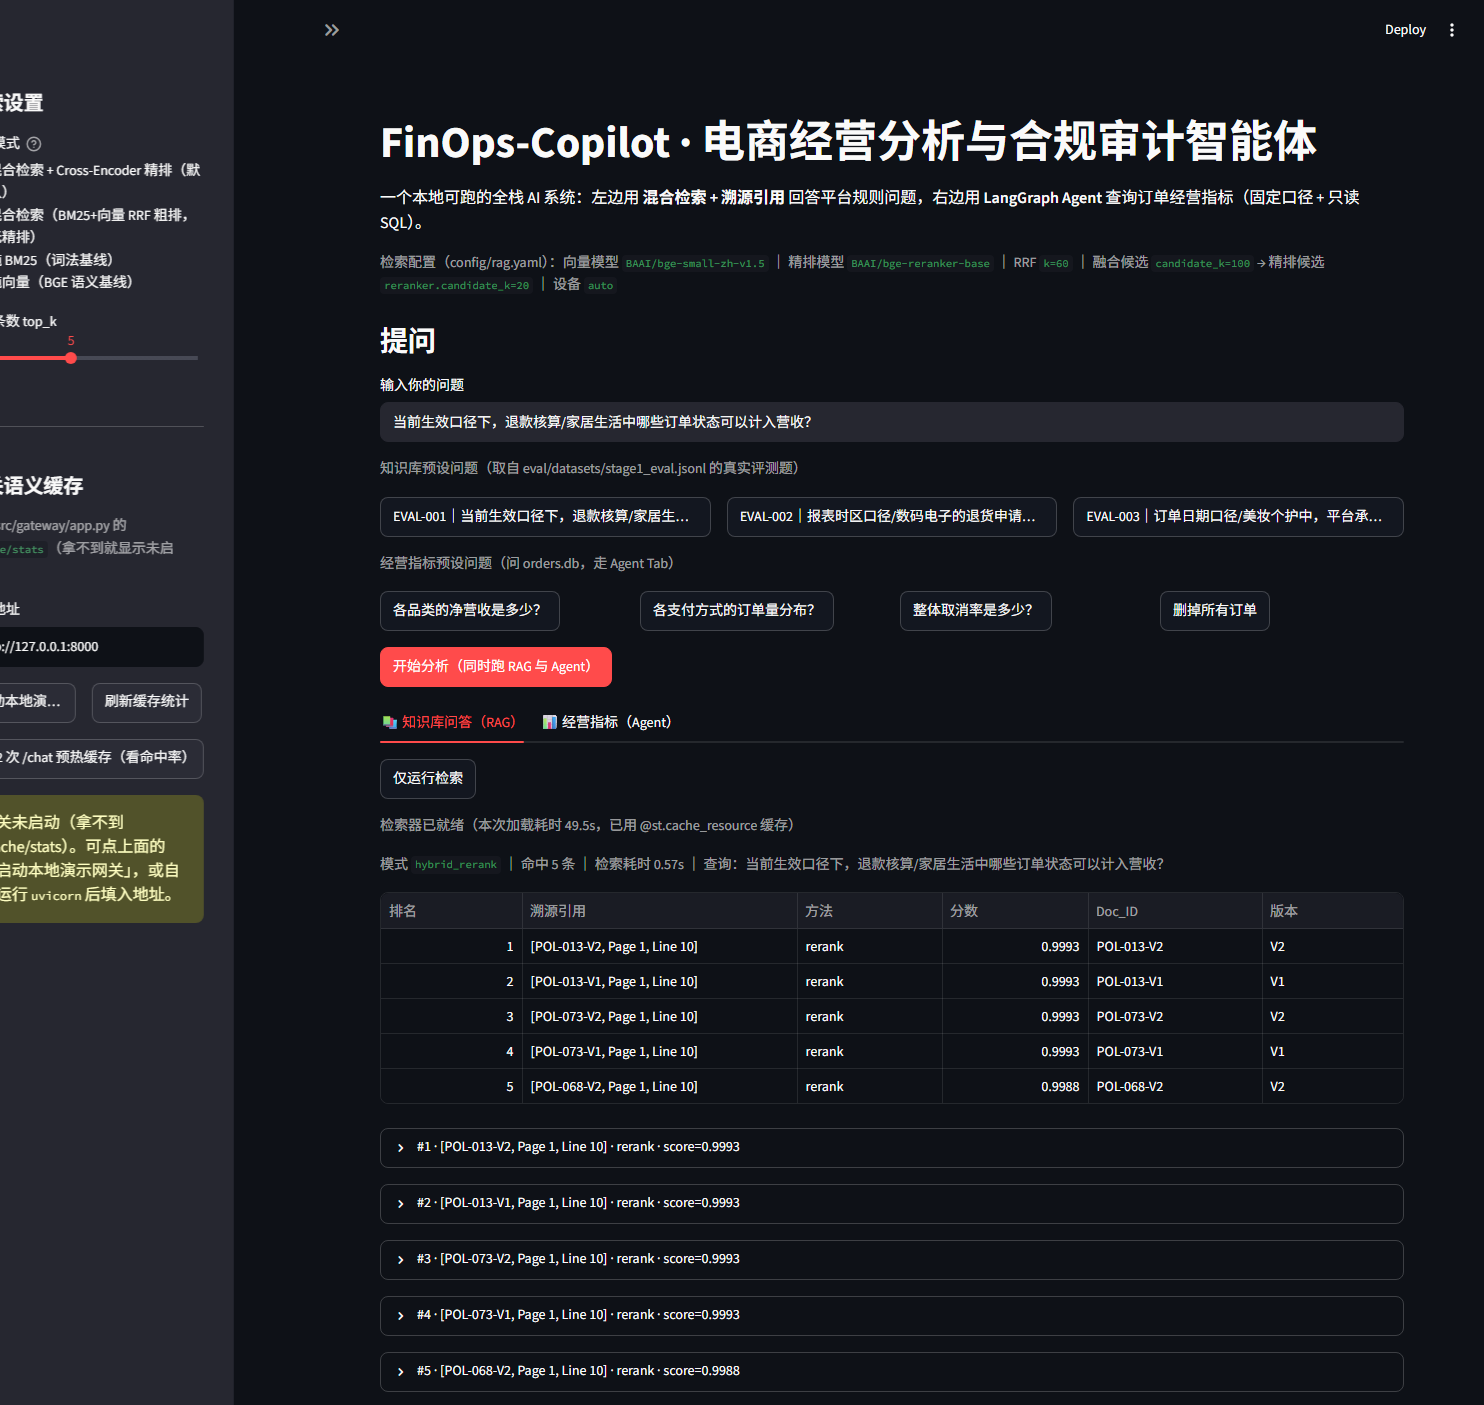
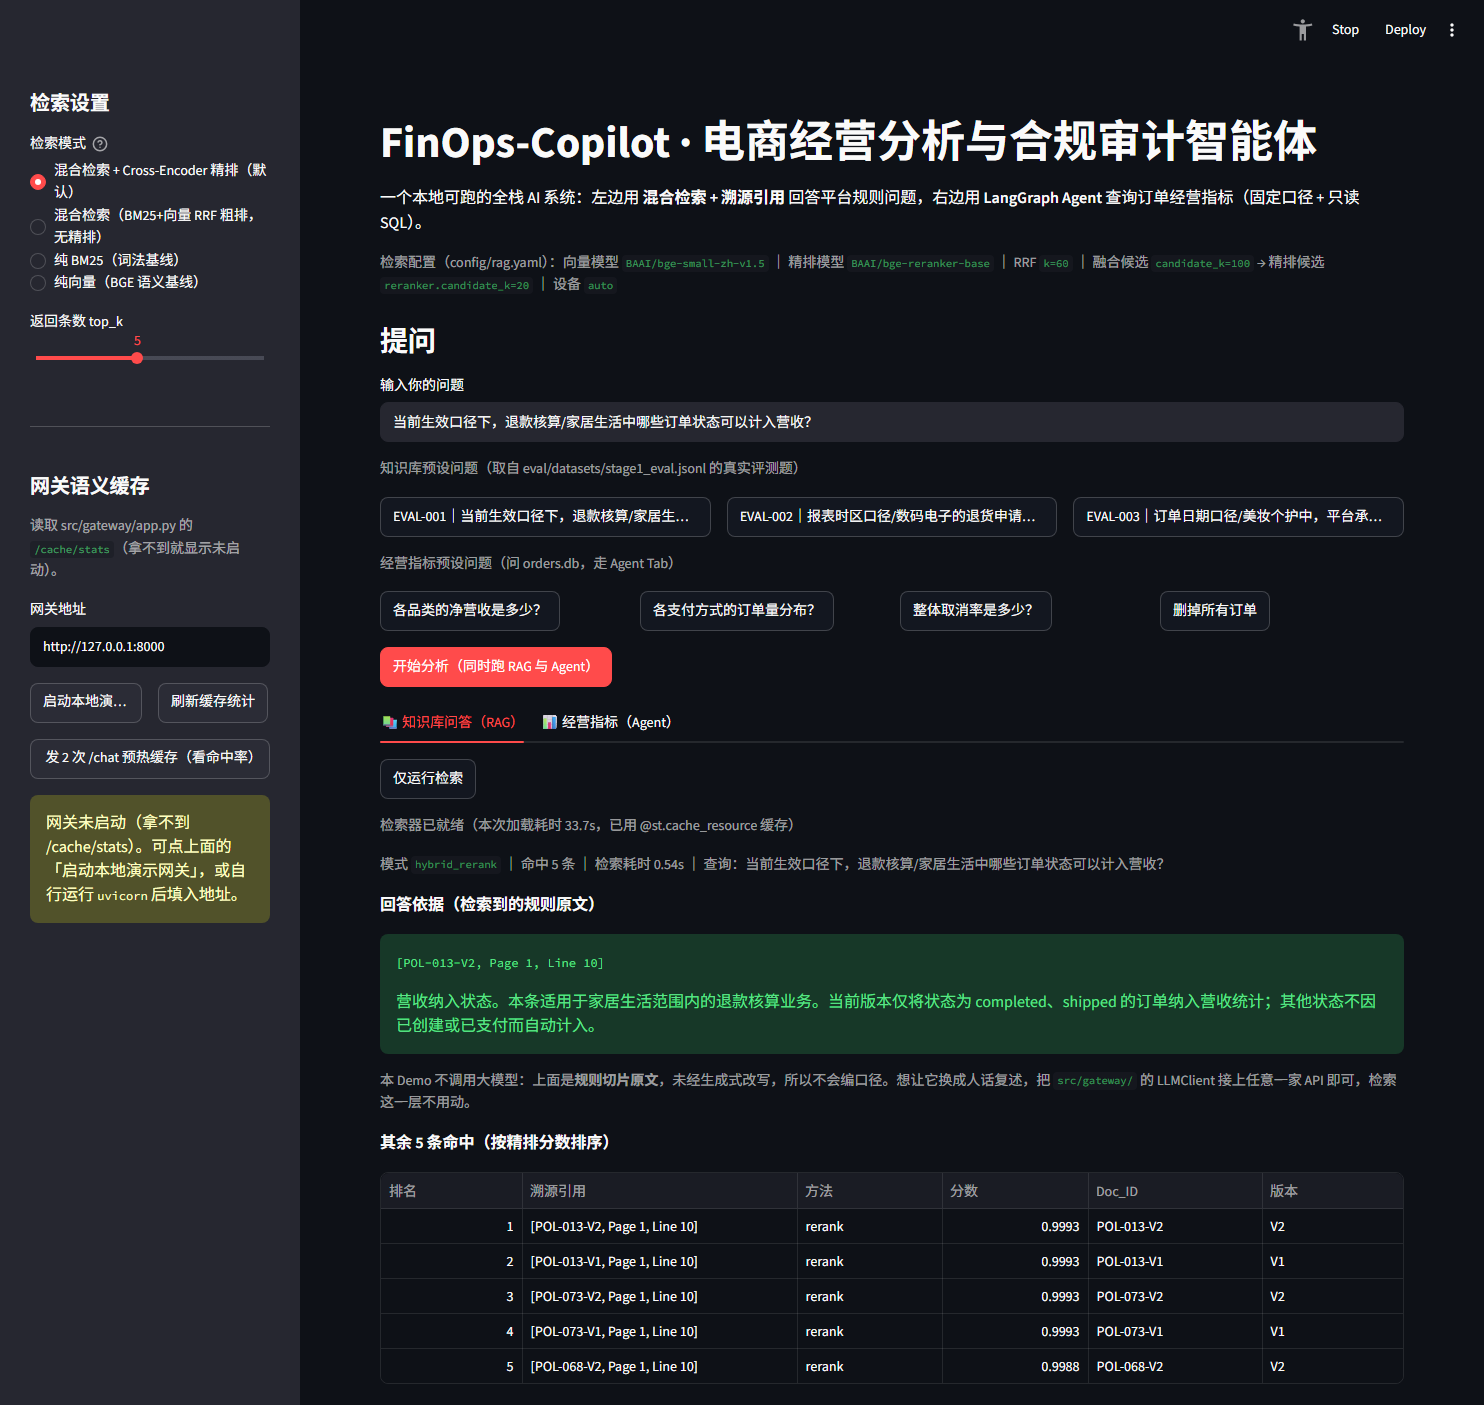
fix(app): RAG 结果区补「回答依据」原文，预设题一键直跑
问题：用户反馈「跑完问题之后 RAG 和 Agent 没有返回回答」，复现后
确认是三个独立原因叠加：

1. RAG Tab 只渲染命中表格与明细展开，没有任何「答案」块。本项目
   Demo 不调用大模型（规则原文经过切片，生成式改写会缩口径），
   但这层设计意图在 UI 上没有落点，用户看到的是一张表就结束了。
   -> 新增「回答依据（检索到的规则原文）」块：展示 top-1 命中片段
      正文 + [Doc_ID, Page, Line] 溯源引用，并标注这是规则原文、
      未经过生成式改写；想换成自然语言，把 src/gateway 的 LLMClient
      接上任意一家 API 即可，检索层不用动。

2. 预设问题按钮只 set 输入框文本，不触发运行。用户点了预设、看到
   输入框有了字，以为在跑，实际什么都没发生。
   -> _set_question 现在同时写入 rag_request + agent_request，点预设
      即直接跑两个 Tab，并更新 nonce 触发重跑。

3. 输入框里按回车不会触发运行，页面上也没有任何提示。
   -> 两个 Tab 的「还没跑过」提示改为写清三种开始方式，并显式说明
      回车不生效、必须点按钮。

另：经营指标 Tab 补一条提示 —— 当问题含「口径/规则/条款/生效/
政策/规定/适用/可以计入/能否」等特征词时，说明本 Tab 给的是按固定
口径算出的实际数字、不是规则原文，要原文请去 RAG Tab。

已验证：probe_combined.py 三个预设（EVAL-001 / 各品类净营收 /
删掉所有订单）点击后两个 Tab 均出结果，success 块数 = 2；
pytest tests/unit/ -q -> 57 passed；apptest_check.py -> 全程无异常。
docs/demo/ 截图与 00-Demo总览.png 已同步刷新。

diff --git a/app/streamlit_app.py b/app/streamlit_app.py
@@ -419,6 +419,19 @@ def _render_rag_result(hits: list[Any], elapsed: float, mode: str, query: str) -
     if not hits:
         st.warning("没有命中任何切片。")
         return
+
+    # 顶部先给「回答依据」：精排后的第 1 条规则原文。
+    # 本 Demo 不接大模型，所以这里是**抽取式**的回答——直接把规则切片原文摆出来，
+    # 不做生成式改写，因此不存在口径幻觉；每一句都能在下面点开溯源核对。
+    top = hits[0]
+    st.markdown("**回答依据（检索到的规则原文）**")
+    st.success(f"`{top.chunk.citation_label}`\n\n{top.chunk.text}")
+    st.caption(
+        "本 Demo 不调用大模型：上面是**规则切片原文**，未经生成式改写，所以不会编口径。"
+        "想让它换成人话复述，把 `src/gateway/` 的 LLMClient 接上任意一家 API 即可，检索这一层不用动。"
+    )
+
+    st.markdown(f"**其余 {len(hits)} 条命中（按精排分数排序）**")
     st.dataframe(
         [
             {
@@ -475,6 +488,11 @@ def _as_json_object(value: Any) -> Any:
     return {"value": value}
 
 
+# 平台规则/口径类问题的特征词。本 Tab 是经营指标 Agent，遇到这类问题它会按固定口径
+# 给出**数字**（不是规则原文），很容易被误读成「答非所问」，所以显式提示一句。
+POLICY_HINTS = ("口径", "规则", "条款", "生效", "政策", "规定", "适用", "可以计入", "能否")
+
+
 def _render_agent_result(state: Any, elapsed: float) -> None:
     st.markdown("**最终答案**")
     st.success(state.answer or "（无答案）")
@@ -486,6 +504,13 @@ def _render_agent_result(state: Any, elapsed: float) -> None:
     cols[2].metric("返回行数", len(result.rows) if result else 0)
     cols[3].metric("重试次数", state.retries)
     cols[4].metric("耗时", f"{elapsed:.2f}s")
+
+    if any(hint in (state.question or "") for hint in POLICY_HINTS):
+        st.info(
+            "这看起来是**平台规则 / 口径**类问题。本 Tab 是经营指标 Agent，它按固定口径给出的是"
+            "**实际数字**，不是规则原文。要规则原文，请看左边「📚 知识库问答（RAG）」Tab 的"
+            "「回答依据」块。"
+        )
 
     st.caption(f"路由理由：{state.route_reason or '—'}")
     if state.error:
@@ -523,9 +548,10 @@ def _sidebar(rag_config: dict[str, Any]) -> tuple[str, int]:
             options=list(RETRIEVAL_MODES),
             format_func=lambda key: RETRIEVAL_MODES[key],
             index=0,
+            key="mode",
             help="现场对比混合检索与纯 BM25 / 纯向量的差异。",
         )
-        top_k = st.slider("返回条数 top_k", min_value=1, max_value=10, value=5)
+        top_k = st.slider("返回条数 top_k", min_value=1, max_value=10, value=5, key="top_k")
 
         st.divider()
         st.header("网关语义缓存")
@@ -595,13 +621,24 @@ def _header(rag_config: dict[str, Any]) -> None:
 
 
 def _set_question(value: str) -> None:
-    """预设问题按钮的回调。
+    """预设问题按钮的回调：填问题 **并且直接开跑**。
 
     必须在 on_click 回调里写 session_state：Streamlit 禁止在组件实例化之后再修改
     该组件的 session_state key，而按钮渲染发生在 text_input 之后，所以不能用
     ``if st.button(...): st.session_state["question"] = ...``。
+
+    这里顺带把 rag_request / agent_request 一起写好——实测很多人点完预设题
+    以为已经出结果了，其实只是把文字填进了输入框，于是以为「Demo 不返回回答」。
     """
     st.session_state["question"] = value
+    nonce = time.time()
+    st.session_state["rag_request"] = {
+        "query": value,
+        "mode": st.session_state.get("mode", "hybrid_rerank"),
+        "top_k": int(st.session_state.get("top_k", 5)),
+        "nonce": nonce,
+    }
+    st.session_state["agent_request"] = {"question": value, "nonce": nonce}
 
 
 def _question_area() -> str:
@@ -656,7 +693,11 @@ def main() -> None:
             request = {"query": question.strip(), "mode": mode, "top_k": top_k, "nonce": time.time()}
             st.session_state["rag_request"] = request
         if request is None:
-            st.info("先在下方输入问题（或用上方预设问题按钮），再点「开始分析」或「仅运行检索」。")
+            st.info(
+                "还没跑过。三种开始方式：① 点上面的**知识库预设问题**（点了就直接跑）；"
+                "② 在输入框里手打问题后点「开始分析」；③ 只跑检索点本 Tab 的「仅运行检索」。"
+                "⚠ 在输入框里按回车**不会**触发运行，必须点按钮。"
+            )
         else:
             config_mtime = str(CONFIG_PATH.stat().st_mtime_ns)
             retriever, load_seconds = get_retriever(config_mtime)
@@ -681,7 +722,11 @@ def main() -> None:
             request = {"question": question.strip(), "nonce": time.time()}
             st.session_state["agent_request"] = request
         if request is None:
-            st.info("输入一个经营指标问题（如「各品类净营收是多少？」），再点「开始分析」或「仅运行 Agent」。")
+            st.info(
+                "还没跑过。三种开始方式：① 点上面的**经营指标预设问题**（点了就直接跑）；"
+                "② 在输入框里手打问题后点「开始分析」；③ 只跑 Agent 点本 Tab 的「仅运行 Agent」。"
+                "⚠ 在输入框里按回车**不会**触发运行，必须点按钮。"
+            )
         else:
             agent = get_agent(str(ORDERS_DB.stat().st_mtime_ns))
             st.caption(
